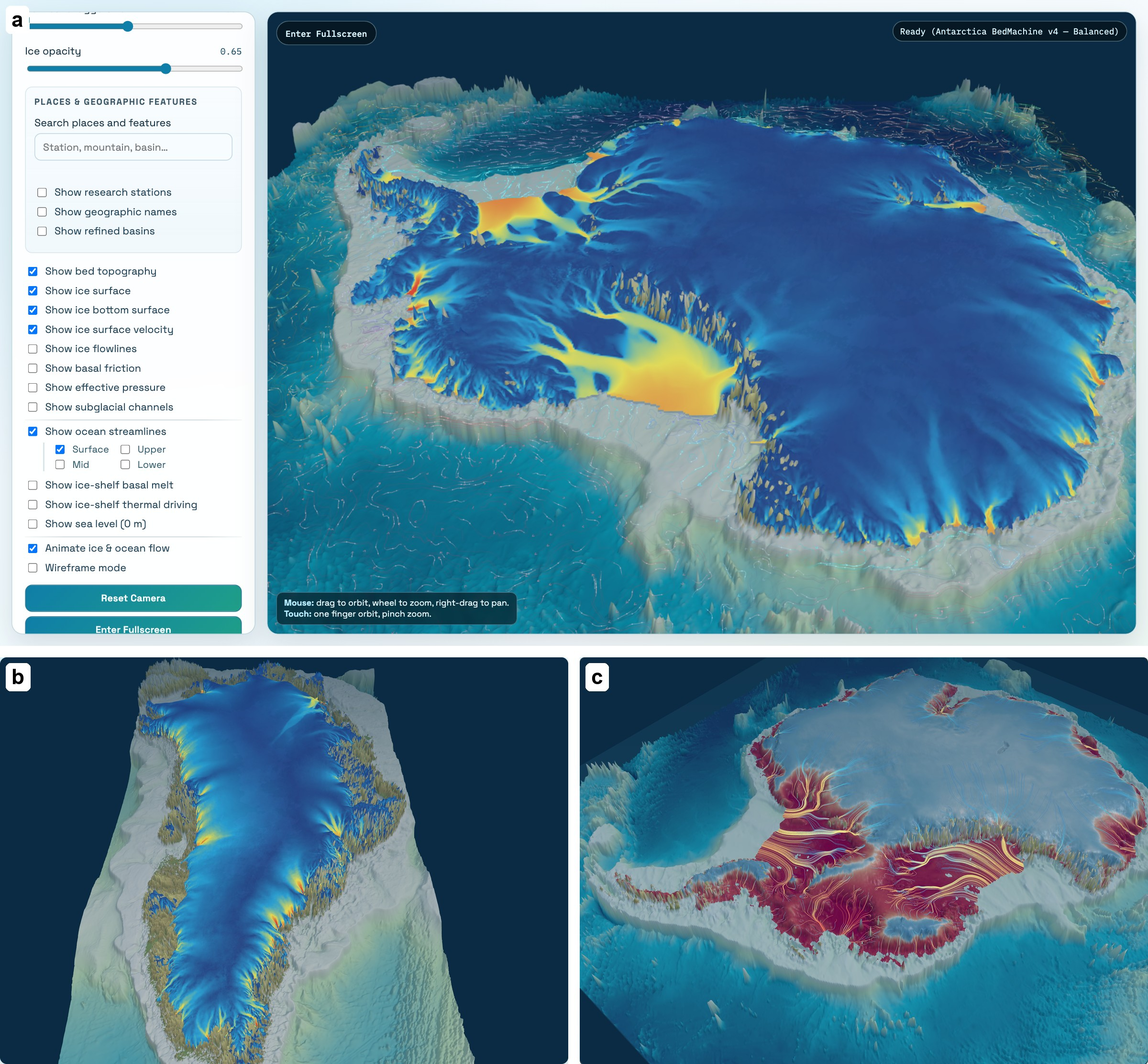
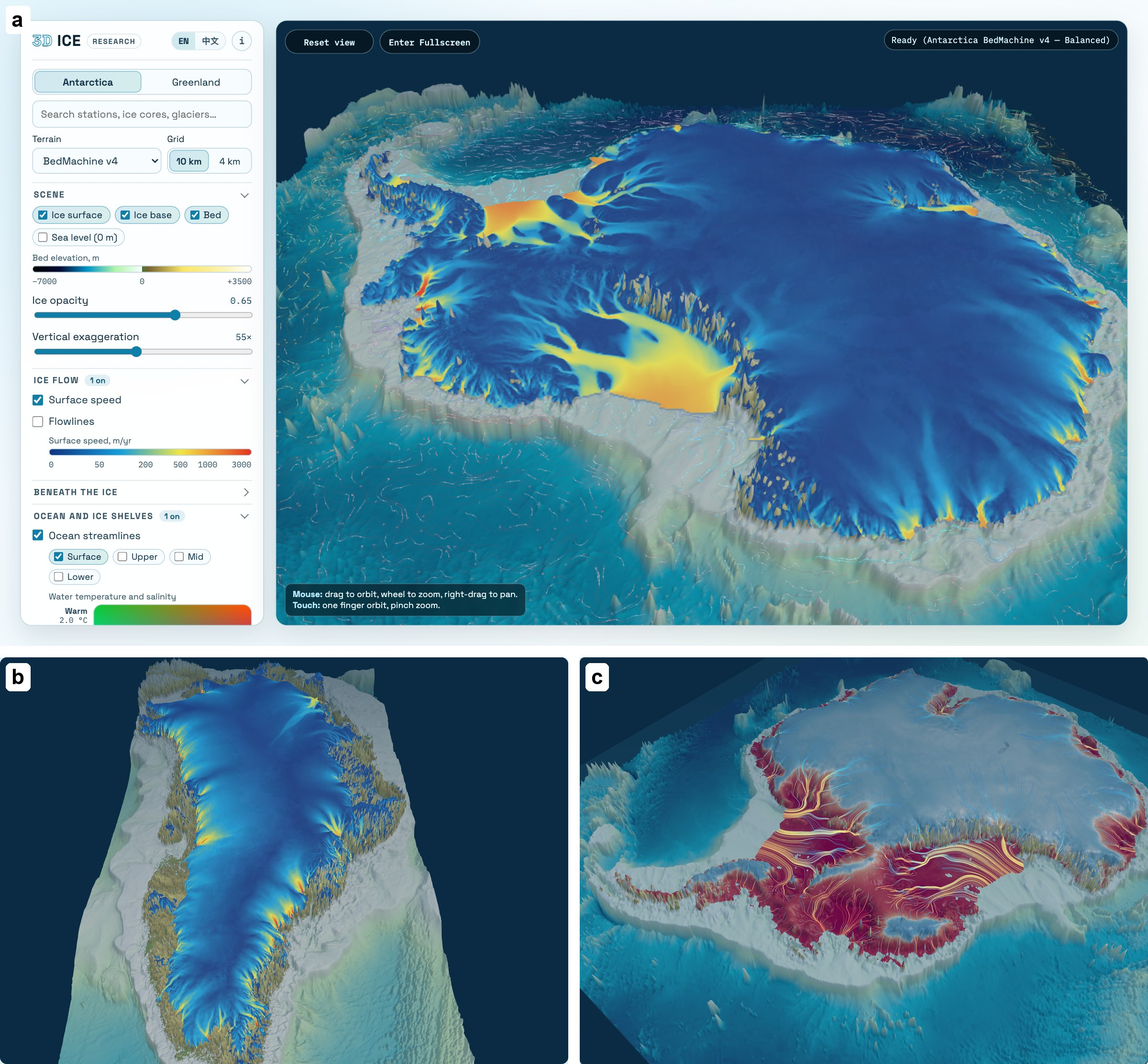
docs(joss): re-render Figure 1(a) with the rebuilt research panel
Figure 1(a) showed the panel of v0.3.1, which v0.4.0 replaces. The panel
is re-captured from the release branch with the same layers (surface
speed and the surface band of the WAOM2 streamlines over BedMachine
Antarctica v4), at the same 1600 x 900 viewport and 1.5x scale. It is
dropped into the composite losslessly (jpegtran -drop at +0+0), so
panels (b) and (c) keep their bytes. For the capture the page margin is
28 px instead of 16, so the "a" label sits on the panel's corner and
clears the wordmark. The label is redrawn the size of "b" and "c": the
old label box also held the end of a slider.

The AI disclosure's dates for Claude Opus 5 and 5.5 now run to November
2026, when the panel the figure shows was built.

Changed region(s): [[0.0, 0.0, 1.0, 0.6205]]

diff --git a/paper.md b/paper.md
@@ -209,7 +209,7 @@ the OpenAI Codex coding agent (GPT-5-family models, February to August 2026)
 from Y. Wang's natural-language specifications, data, and review, as the
 project's public coverage describes [@aapp2026]. Anthropic's Claude Code
 (Claude Opus 4.6 in March and April 2026; Claude Opus 5 and Claude Opus 5.5 in
-September and October 2026) was used for later work: parts of the interface,
+September to November 2026) was used for later work: parts of the interface,
 including the public edition and the home pages; test infrastructure; the
 isostatic-rebound and projection layers and their data pipelines; the
 refactoring of the runtime into shared, tested modules; the repository
